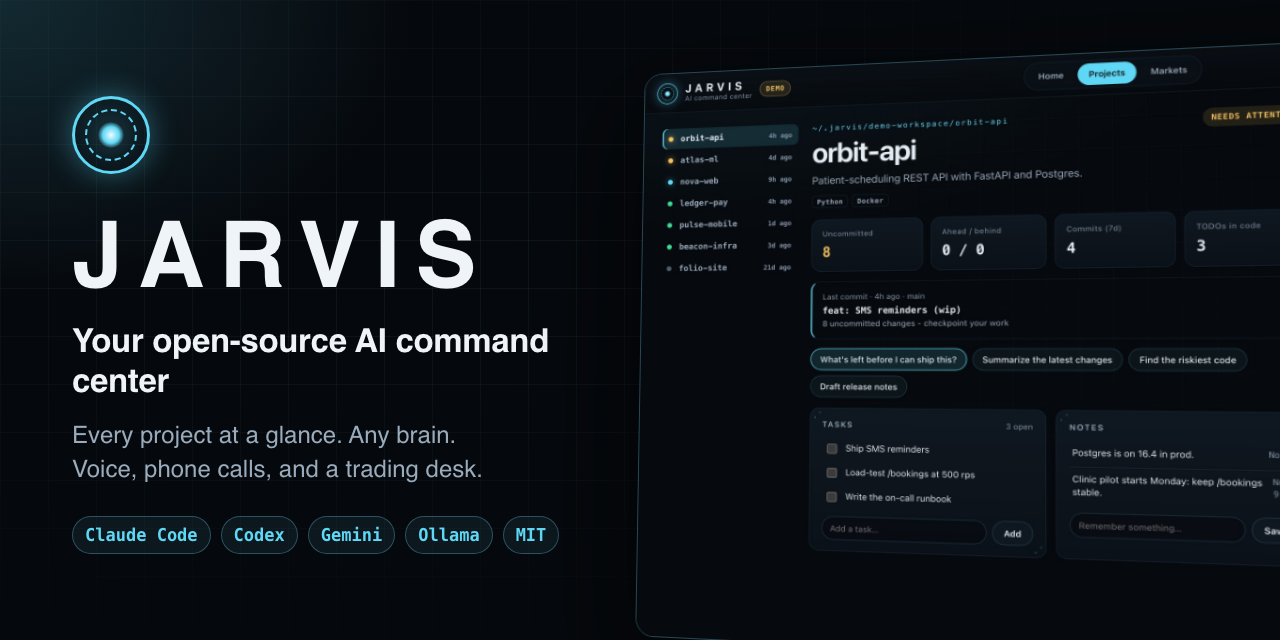
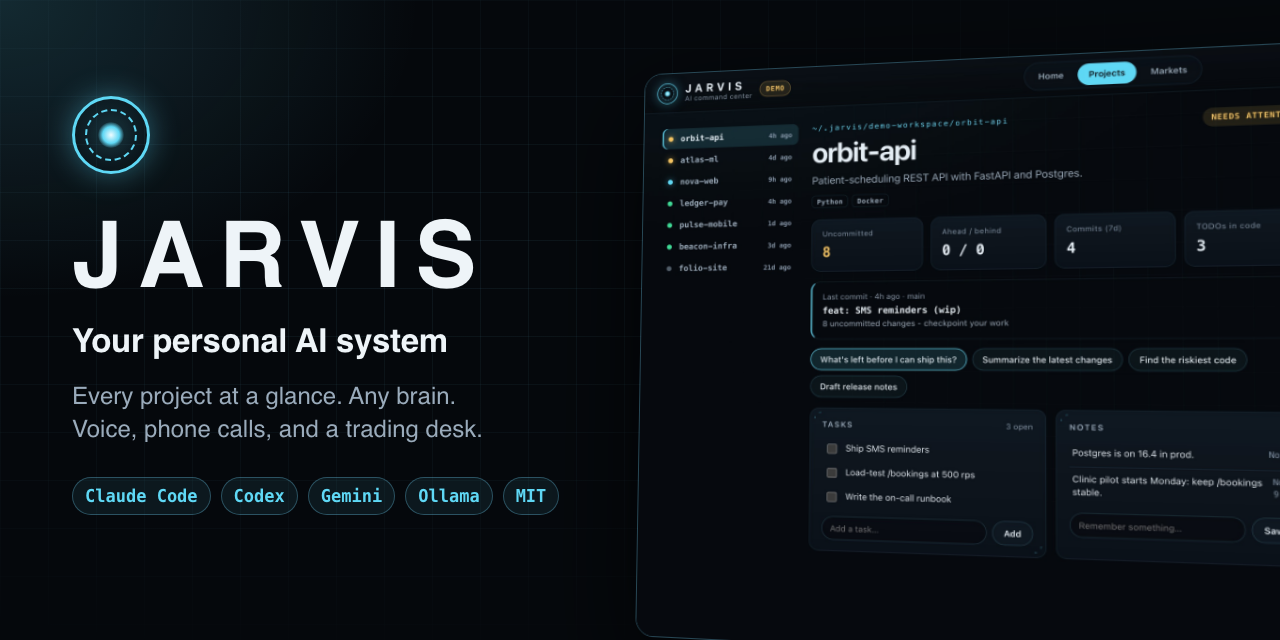
JARVIS: your personal AI system; run fake-CLI brain tests on POSIX only

Changed region(s): [[0.0312, 0.5625, 0.4375, 0.875], [0.125, 0.5, 0.4375, 0.5625]]

diff --git a/jarvis/web/index.html b/jarvis/web/index.html
@@ -8,7 +8,7 @@
   <meta name="apple-mobile-web-app-capable" content="yes">
   <meta name="apple-mobile-web-app-status-bar-style" content="black-translucent">
   <meta name="apple-mobile-web-app-title" content="JARVIS">
-  <title>JARVIS · AI command center</title>
+  <title>JARVIS · Your personal AI system</title>
   <link rel="icon" href="favicon.svg" type="image/svg+xml">
   <link rel="apple-touch-icon" href="apple-touch-icon.png">
   <link rel="manifest" href="manifest.webmanifest">
@@ -23,7 +23,7 @@
       <div class="reactor" aria-hidden="true"><span></span><span></span><span></span></div>
       <div class="wordmark" translate="no">
         <strong>JARVIS</strong>
-        <small>AI command center</small>
+        <small>personal AI system</small>
       </div>
       <span class="badge demo" id="demoBadge" hidden>DEMO</span>
     </div>

diff --git a/tests/test_brains.py b/tests/test_brains.py
@@ -9,6 +9,8 @@ import pytest
 
 from jarvis.brains import ClaudeCodeBrain, CodexBrain, CommandBrain, GeminiBrain, OfflineBrain, make_brain
 
+posix_only = pytest.mark.skipif(sys.platform == "win32", reason="fake CLIs are shebang scripts; Windows can't exec them")
+
 
 def fake_cli(tmp_path, name, body):
     p = tmp_path / name
@@ -30,6 +32,7 @@ def argv(tmp_path):
     return json.loads((tmp_path / "argv.json").read_text())
 
 
+@posix_only
 def test_claude_code_is_read_only_by_default(path_env):
     fake_cli(path_env, "claude", "print(json.dumps({'result': 'all good', 'session_id': 's1'}))")
     ans = ClaudeCodeBrain().ask("hi", cwd=str(path_env))
@@ -38,6 +41,7 @@ def test_claude_code_is_read_only_by_default(path_env):
     assert a[a.index("--permission-mode") + 1] == "plan" and "--disallowedTools" in a and "Bash" in a[a.index("--disallowedTools") + 1]
 
 
+@posix_only
 def test_claude_code_allow_edits_and_resume(path_env):
     fake_cli(path_env, "claude", "print(json.dumps({'result': 'ok', 'session_id': 's2'}))")
     ClaudeCodeBrain(allow_edits=True, model="claude-sonnet-5-5").ask("hi", session="s1")
@@ -46,6 +50,7 @@ def test_claude_code_allow_edits_and_resume(path_env):
     assert a[a.index("--model") + 1] == "claude-sonnet-5-5"
 
 
+@posix_only
 def test_codex_reads_last_message_file(path_env):
     fake_cli(path_env, "codex", "open(argv[argv.index('--output-last-message') + 1], 'w').write('codex says hi')")
     ans = CodexBrain().ask("hi")
@@ -55,12 +60,14 @@ def test_codex_reads_last_message_file(path_env):
     assert "workspace-write" in argv(path_env)
 
 
+@posix_only
 def test_gemini_json_response(path_env):
     fake_cli(path_env, "gemini", "print(json.dumps({'response': 'gemini says hi'}))")
     assert GeminiBrain().ask("hi").text == "gemini says hi"
     assert "--approval-mode" not in argv(path_env)
 
 
+@posix_only
 def test_command_brain_never_uses_a_shell(path_env):
     fake_cli(path_env, "myagent", "print('custom: ' + argv[-1][-5:])")
     b = CommandBrain(command="myagent --msg {prompt}")

diff --git a/jarvis/cli.py b/jarvis/cli.py
@@ -35,7 +35,7 @@ BANNER = r"""
      ██║███████║██████╔╝██║   ██║██║███████╗
 ██   ██║██╔══██║██╔══██╗╚██╗ ██╔╝██║╚════██║
 ╚█████╔╝██║  ██║██║  ██║ ╚████╔╝ ██║███████║
- ╚════╝ ╚═╝  ╚═╝╚═╝  ╚═╝  ╚═══╝  ╚═╝╚══════╝  your AI command center v{v}
+ ╚════╝ ╚═╝  ╚═╝╚═╝  ╚═╝  ╚═══╝  ╚═╝╚══════╝  your personal AI system v{v}
 """
 
 C = {
@@ -515,7 +515,7 @@ def cmd_doctor(args, cfg: Config, env_warnings: list[str]) -> None:
 
 
 def main(argv: list[str] | None = None) -> None:
-    p = argparse.ArgumentParser(prog="jarvis", description="JARVIS - your AI command center: projects, any brain, phone, markets")
+    p = argparse.ArgumentParser(prog="jarvis", description="JARVIS - your personal AI system: projects, any brain, voice, phone, markets")
     p.add_argument("--config", "-c", help="path to jarvis.toml (default: ./jarvis.toml if present)")
     p.add_argument("--version", action="version", version=f"jarvis {__version__}")
     p.add_argument("-v", "--verbose", action="store_true")

diff --git a/jarvis/__init__.py b/jarvis/__init__.py
@@ -1,4 +1,4 @@
-"""JARVIS - open-source AI command center.
+"""JARVIS - your personal AI system, open source.
 
 Every project at a glance, any brain (Claude Code, Codex, Gemini, Ollama),
 voice, phone and calls, plus an autonomous trading desk on Alpaca.

diff --git a/README.md b/README.md
@@ -2,9 +2,11 @@
 
 <img src="docs/assets/logo.svg" width="88" alt="JARVIS arc reactor logo">
 
-# JARVIS · Your open-source AI command center
+# JARVIS · Your Personal AI System
 
-**One assistant for every project you own. It reads your code with *any* AI model, talks with you by voice, picks up when you call it, and runs a trading desk while you work.**
+**The assistant every developer has wanted since 2008. Now it's open source.**
+
+One AI that knows all your work: every project you own, read with *any* model. It talks with you by voice, picks up when you call it, and runs a trading desk while you work.
 
 Claude Code · Codex · Gemini CLI · Ollama · any CLI agent. Swap the brain with one line. Your code never leaves your machine.
 
@@ -18,7 +20,7 @@ Claude Code · Codex · Gemini CLI · Ollama · any CLI agent. Swap the brain wi
 
 [**Try it in 30 seconds**](#-try-it-in-30-seconds) · [What it does](#-what-jarvis-does) · [Any brain](#-any-brain-swap-it-in-one-line) · [On your phone](#-on-your-phone-voice-and-calls) · [Markets](#-markets-autonomous-trading-inside-hard-limits) · [Security](#-security) · [FAQ](#-faq)
 
-<img src="docs/assets/demo.gif" alt="JARVIS AI command center: daily briefing across projects, asking questions about a codebase, switching projects by voice, and the autonomous trading dashboard" width="100%">
+<img src="docs/assets/demo.gif" alt="JARVIS personal AI system: daily briefing across projects, asking questions about a codebase, switching projects by voice, and the autonomous trading dashboard" width="100%">
 
 <sub><code>jarvis demo</code>: a sample workspace of 7 real git repos plus a simulated market. No keys, no account, nothing leaves your machine.</sub>
 
@@ -272,6 +274,6 @@ For education and research. The markets module is **not financial advice**. Trad
 
 Built by **Begad Tamim**, AI engineer · [GitHub](https://github.com/begad-tamim) · [LinkedIn](https://www.linkedin.com/in/begad-tamim) · MIT License
 
-<sub>JARVIS AI assistant · open-source personal AI assistant · AI command center for developers · Claude Code UI · Codex CLI · Gemini CLI · Ollama · voice AI assistant · AI phone assistant · project manager for developers · daily standup briefing · AI trading bot · Alpaca trading bot · autonomous agent · lightweight · fast · zero dependencies</sub>
+<sub>JARVIS AI assistant · personal AI system · open-source personal AI assistant · AI command center for developers · Claude Code UI · Codex CLI · Gemini CLI · Ollama · voice AI assistant · AI phone assistant · project manager for developers · daily standup briefing · AI trading bot · Alpaca trading bot · autonomous agent · lightweight · fast · zero dependencies</sub>
 
 </div>

diff --git a/CHANGELOG.md b/CHANGELOG.md
@@ -2,7 +2,7 @@
 
 ## 2.0.0 - 2026-11-09
 
-JARVIS becomes a full AI command center. Trading is now one module.
+JARVIS becomes your personal AI system. Trading is now one module.
 
 - **Projects**: discovers your git repos, shows live status (dirty, ahead, behind, stale, TODOs) and a free daily briefing
 - **Any brain**: Claude Code, Codex, Gemini CLI, Ollama, Claude API, any command (`brain = "cmd"`) or offline. Runs inside the active project, read-only by default
